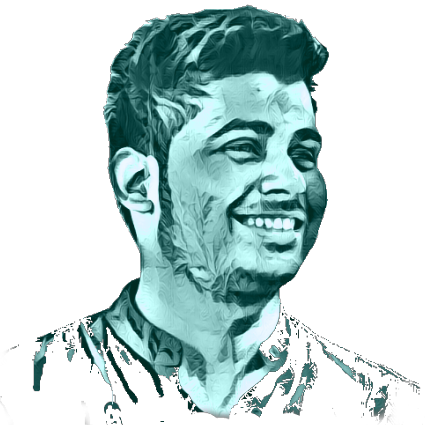
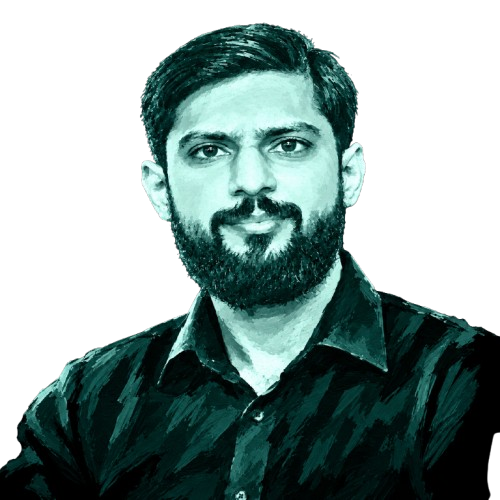
code updated

diff --git a/src/data/experience.ts b/src/data/experience.ts
@@ -2,36 +2,48 @@ import { type ExperienceShowcaseListItemProps } from "@/components/experience/ex
 
 export const EXPERIENCE: ExperienceShowcaseListItemProps[] = [
   {
-    title: "Software Developer",
+    title: "MERN Stack Developer",
     organisation: {
-      name: "Skima",
-      href: "https://skima.ai/",
+      name: "SCube",
+      href: "https://scube.com/",
     },
-    date: "Oct 2023 - Present",
-    location: "Mumbai",
-    description: "Reactjs and Nextjs app development",
+    date: "January 2025 - Present",
+    location: "Onsite",
+    description:
+      "Developing and maintaining scalable web applications using React.js, Next.js, Node.js, and modern frontend technologies. Building user-focused features, integrating APIs, and contributing to full-stack application development.",
   },
   {
-    title: "Engineering Trainee",
+    title: "Frontend Developer",
     organisation: {
-      name: "Hexaware",
-      href: "https://hexaware.com/",
+      name: "Programmers Force",
+      href: "https://programmersforce.com/",
     },
-    date: "July 2023 - Sep 2023",
-    location: "Remote",
+    date: "November 2024 - January 2025",
+    location: "Onsite",
     description:
-      "Learned to work we monorepo and got to learn application architecture, scalling and build tooling to improve CI/CD of micro services.",
+      "Developed responsive and interactive web applications using React.js and Next.js. Collaborated with the development team to implement features, improve user interfaces, and maintain application quality.",
   },
   {
-    title: "Frontend Developer Intern",
+    title: "Frontend Developer",
     organisation: {
-      name: "Countour Software House",
-      href: "https://masterinfotech.com/",
+      name: "GenArk",
+      href: "https://genark.ai/",
     },
-    date: "Winter - (2022-2023)",
+    date: "October 2023 - December 2024",
     location: "Remote",
     description:
-      "Worked on a team responsible for developing new features and updating old codebases to latest technologies. Learned alot about web development and CI/CD development cycle.",
+      "Worked on Next.js applications within a monorepo environment, gaining experience in application architecture, scalable development, and build tooling. Contributed to improving development workflows and CI/CD processes for microservices.",
+  },
+  {
+    title: "MERN Stack Developer",
+    organisation: {
+      name: "Contour Software House",
+      href: "https://contour-software.com/",
+    },
+    date: "September 2022 - June 2023",
+    location: "Onsite",
+    description:
+      "Developed and enhanced web applications using the MERN stack. Implemented new features, modernized existing codebases, and collaborated with the team throughout the software development and CI/CD lifecycle.",
   },
   {
     title: "React Native Intern",
@@ -39,9 +51,9 @@ export const EXPERIENCE: ExperienceShowcaseListItemProps[] = [
       name: "Hello World Technologies",
       href: "https://helloworldtech.com/",
     },
-    date: "Winter - 2021",
+    date: "June 2021 - September 2021",
     location: "Onsite",
     description:
-      "Worked on a team responsible for developing new features and updating old codebases to latest technologies. Learned alot about web development and CI/CD development cycle.",
+      "Gained hands-on experience in mobile application development using React Native. Collaborated with the development team to implement features, improve existing code, and strengthen practical software development skills.",
   },
 ];

diff --git a/src/data/projects.ts b/src/data/projects.ts
@@ -5,12 +5,12 @@ import { siteMetadata } from "@/data/siteMetaData.mjs";
 export const PROJECT_SHOWCASE: ProjectShowcaseListItem[] = [
   {
     index: 0,
-    title: "Json Tree",
+    title: "Health Plus",
     href: "/projects",
     tags: ["Nextjs", "Tailwindcss", "Monaco Editor", "Vercel"],
     image: {
-      LIGHT: "/images/projects/jsontreeLight.webp",
-      DARK: "/images/projects/jsontreeDark.webp",
+      LIGHT: "/images/projects/health/1.png",
+      DARK: "/images/projects/health/1.png",
     },
   },
   {
@@ -45,15 +45,15 @@ export const PROJECT_SHOWCASE: ProjectShowcaseListItem[] = [
 
 export const PROJECTS_CARD: ProjectCardProps[] = [
   {
-    name: "Json tree",
-    favicon: "/images/projects/logos/jsontree.ico",
+    name: "Healtgh Plus",
+    favicon: "/icons/plus.svg",
     imageUrl: [
-      "/images/projects/jsontreeLight.webp",
-      "/images/projects/jsontreeDark.webp",
+      "/images/projects/health/1.png",
+      "/images/projects/health/2.png",
     ],
     description:
       "Visualize JSON data format in form of a tree or graph. Application is made using Nextjs, Tailwindcss and Monaco Editor. Design image can be downloaded from this app.",
-    sourceCodeHref: "https://github.com/BUMBAIYA/jsontree",
+    sourceCodeHref: "https://github.com/MuhammadHuzaifa881/Pakistan-health-plus.git",
     liveWebsiteHref: "https://jsontree.vercel.app",
   },
   {

diff --git a/src/components/about-hero.tsx b/src/components/about-hero.tsx
@@ -1,12 +1,12 @@
-import Image from "next/image";
 import Link from "next/link";
-
+import Image from "next/image";
 import { AnimatePresence } from "framer-motion";
-
 import FadeUp from "@/animation/fade-up";
 import FadeRight from "@/animation/fade-right";
 import heroProfileImg from "@/public/images/heroProfile.png";
 import DuotoneImage from "./duotone-image";
+
+import PakistanFlag from "@/public/pakistan-flag.png";
 
 export default function AboutHero() {
   return (
@@ -60,8 +60,8 @@ export default function AboutHero() {
             <div className="relative flex w-12 gap-4 overflow-hidden rounded-md">
               <Image
                 className="-z-10 h-full w-full bg-cover bg-no-repeat"
-                alt="Indian flag"
-                src="https://flagcdn.com/in.svg"
+                alt="Pakistan flag"
+                src={PakistanFlag}
                 width={15}
                 height={15}
               />

diff --git a/src/data/education.ts b/src/data/education.ts
@@ -2,6 +2,17 @@ import { type ExperienceShowcaseListItemProps } from "@/components/experience/ex
 
 export const EDUCATION: ExperienceShowcaseListItemProps[] = [
   {
+    title: "Master of Science in Computer Science (MSCS)",
+    organisation: {
+      name: "Khwaja Fareed University of Engineering & Information Technology (KFUEIT)",
+      href: "https://kfueit.edu.pk/",
+    },
+    date: "2026 - Present",
+    location: "Rahim Yar Khan, Pakistan",
+    description:
+      "Currently pursuing a Master of Science in Computer Science, focusing on advanced computing concepts, research, and practical applications in software engineering and artificial intelligence.",
+  },
+  {
     title: "Bachelor of Science in Computer Science (BSCS)",
     organisation: {
       name: "Khwaja Fareed University of Engineering & Information Technology (KFUEIT)",
